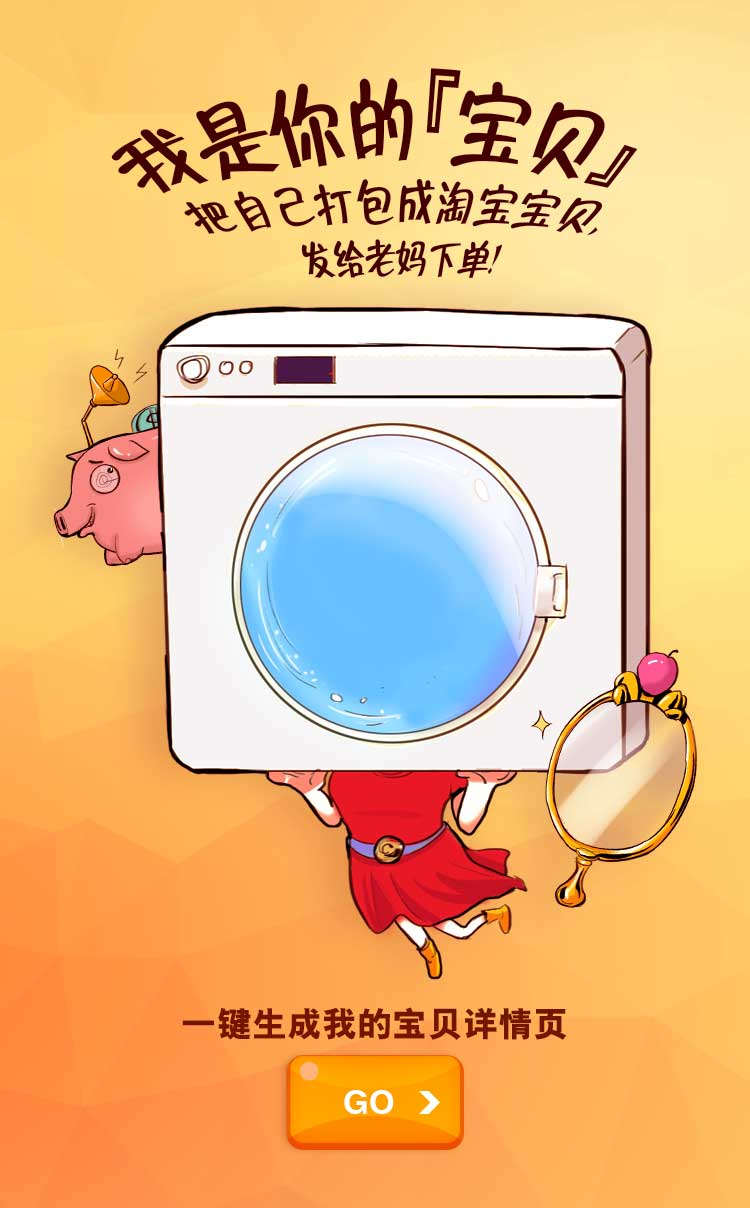
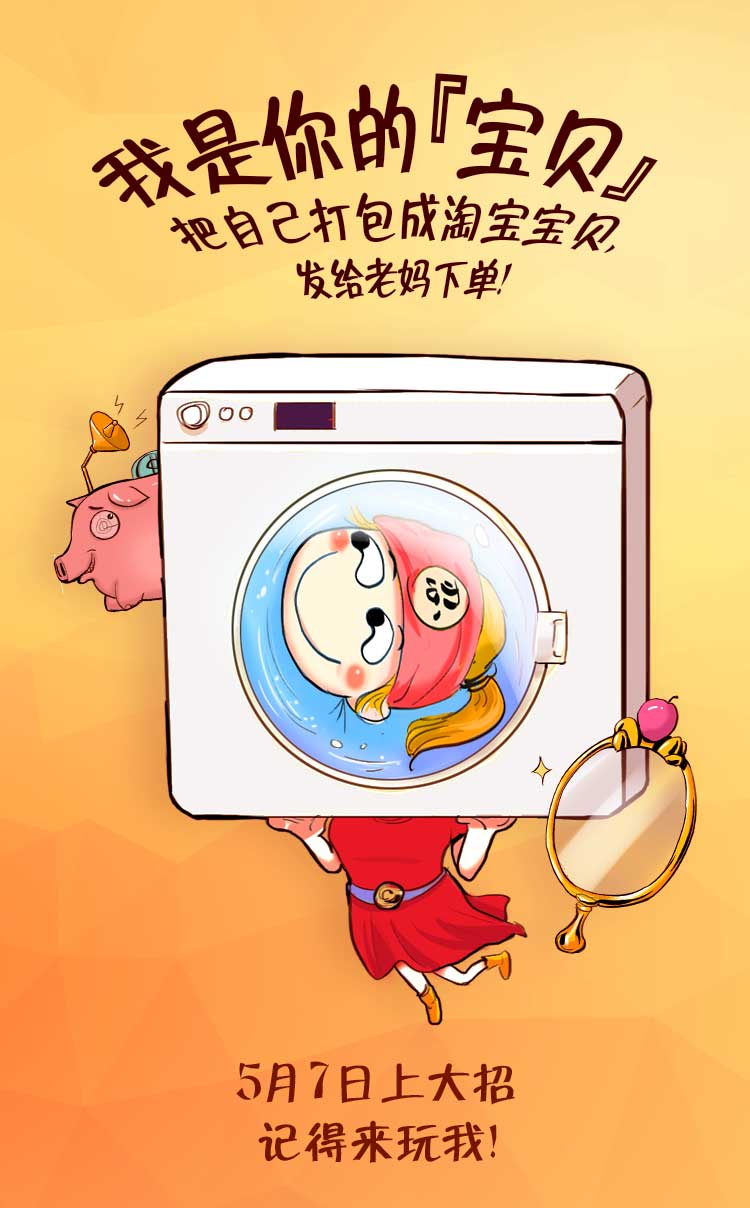
taobao:新的测试页

diff --git a/src/app/taobao-201501/main.src.html b/src/app/taobao-201501/main.src.html
@@ -1,0 +1,33 @@
+<!-- extend "layout.base.html" -->
+
+<!-- section "head" -->
+<script>
+var _hmt = _hmt || [];
+(function() {
+  var hm = document.createElement("script");
+  hm.src = "//hm.baidu.com/hm.js?815e7fa76e3202fc0bb445a2a4c76d12";
+  var s = document.getElementsByTagName("script")[0]; 
+  s.parentNode.insertBefore(hm, s);
+})();
+</script>
+<!-- /section -->
+
+<!-- section "body" -->
+<!-- include "script/mod/main/body.scss" -->
+<script type="text/javascript">
+G.defaultModName = 'main';
+</script>
+<div id="page-wrapper" class="page-wrapper">
+    <div id="init-content-dom" class="sb-mod sb-mod--home" data-sb-scene="0">
+        <div class="sb-mod__body">
+            <!-- require "script/mod/main/body.tpl.html" render="true" -->
+        </div>
+    </div>
+</div>
+<!-- /section -->
+
+<!-- section "boost" -->
+<script type="text/javascript">
+require(['jquery', 'app', 'skateboard'], G.boost);
+</script>
+<!-- /section -->

diff --git a/src/app/taobao-201501/script/mod/main/body.scss b/src/app/taobao-201501/script/mod/main/body.scss
@@ -2,7 +2,7 @@ body.body-sb-mod--home {
 	background-color: #feb85c;
 }
 .sb-mod.sb-mod--home {
-	background-image: url(../../../image/home/bg.jpg);
+	background-image: url(../../../image/home/bg_tmp.jpg);
 	background-position: left top;
 	background-repeat: no-repeat;
 	background-size: cover;
@@ -10,8 +10,7 @@ body.body-sb-mod--home {
 	.head {
 		width: 39.2%;
 		left: 32.3%;
-		// top: 36%;
-		top: 40%;
+		top: 36%;
 		position: absolute;
 		animation: home-head 3s infinite;
 		animation-timing-function: linear;

diff --git a/src/app/taobao-201501/script/mod/main/body.tpl.html b/src/app/taobao-201501/script/mod/main/body.tpl.html
@@ -1,0 +1,6 @@
+<div class="body-inner">
+	<div class="head">
+		<img src="../../../image/home/head.png" />
+	</div>
+	<button class="img-btn btn-go" onclick="G.goClicked = true;G.showLoading();">go</button>
+</div>
